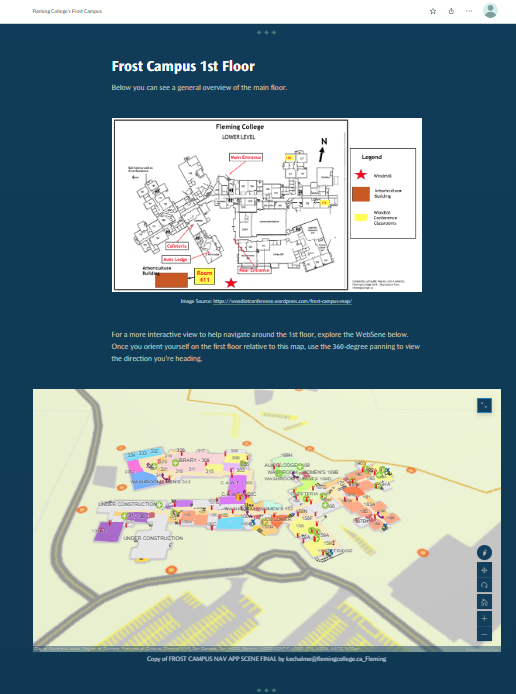
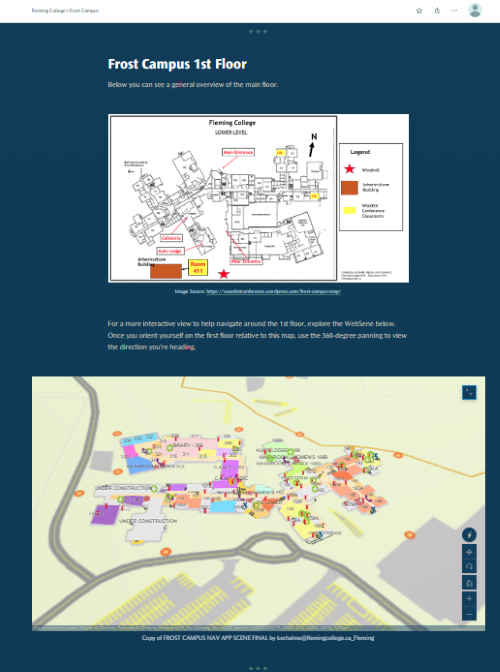
HE commit images

diff --git a/StoryMaps/index.html b/StoryMaps/index.html
@@ -35,8 +35,12 @@
         <div class = "titles">
             <h1>Story Maps</h1>
             <h2> Project Applicability Score: 3 / 5</h2>
-
          </div>
+
+         <!-- Screenshot of solution -->
+        <div class = "port_photo_holder">
+            <img class = "port_photos" src="../Images/StoryMaps_topImg.png" alt="A screenshot of StoryMaps Cover image" style="width:900px; height:auto">
+        </div> 
 
          <div class = "titles">
             <h2> StoryMaps for an immersive and interactive experience</h2>
@@ -64,7 +68,7 @@
         
         <!-- Screenshot of solution -->
         <div class = "port_photo_holder">
-            <img class = "port_photos" src="../Images/StoryMaps_Options.png" alt="A screenshot of StoryMaps interface options">
+            <img class = "port_photos" src="../Images/StoryMaps_Options.png" alt="A screenshot of StoryMaps interface options" style="width:900px; height:auto">
         </div> 
 
         <div class = "text">
@@ -73,7 +77,7 @@
         
         <!-- Screenshot of solution -->
         <div class = "port_photo_holder">
-            <img class = "port_photos" src="../Images/StoryMaps_360.png" alt="A screenshot of StoryMaps 360 image">
+            <img class = "port_photos" src="../Images/StoryMaps_360.png" alt="A screenshot of StoryMaps 360 image" style="width:360px; height:auto">
         </div> 
 
 
@@ -100,7 +104,7 @@
         
         <!-- Screenshot of solution -->
         <div class = "port_photo_holder">
-            <img class = "port_photos" src="../Images/StoryMaps.png" alt="A screenshot of StoryMaps">
+            <img class = "port_photos" src="../Images/StoryMaps.png" alt="A screenshot of StoryMaps" style="width:500px; height:auto">
         </div> 
         
     </div>
